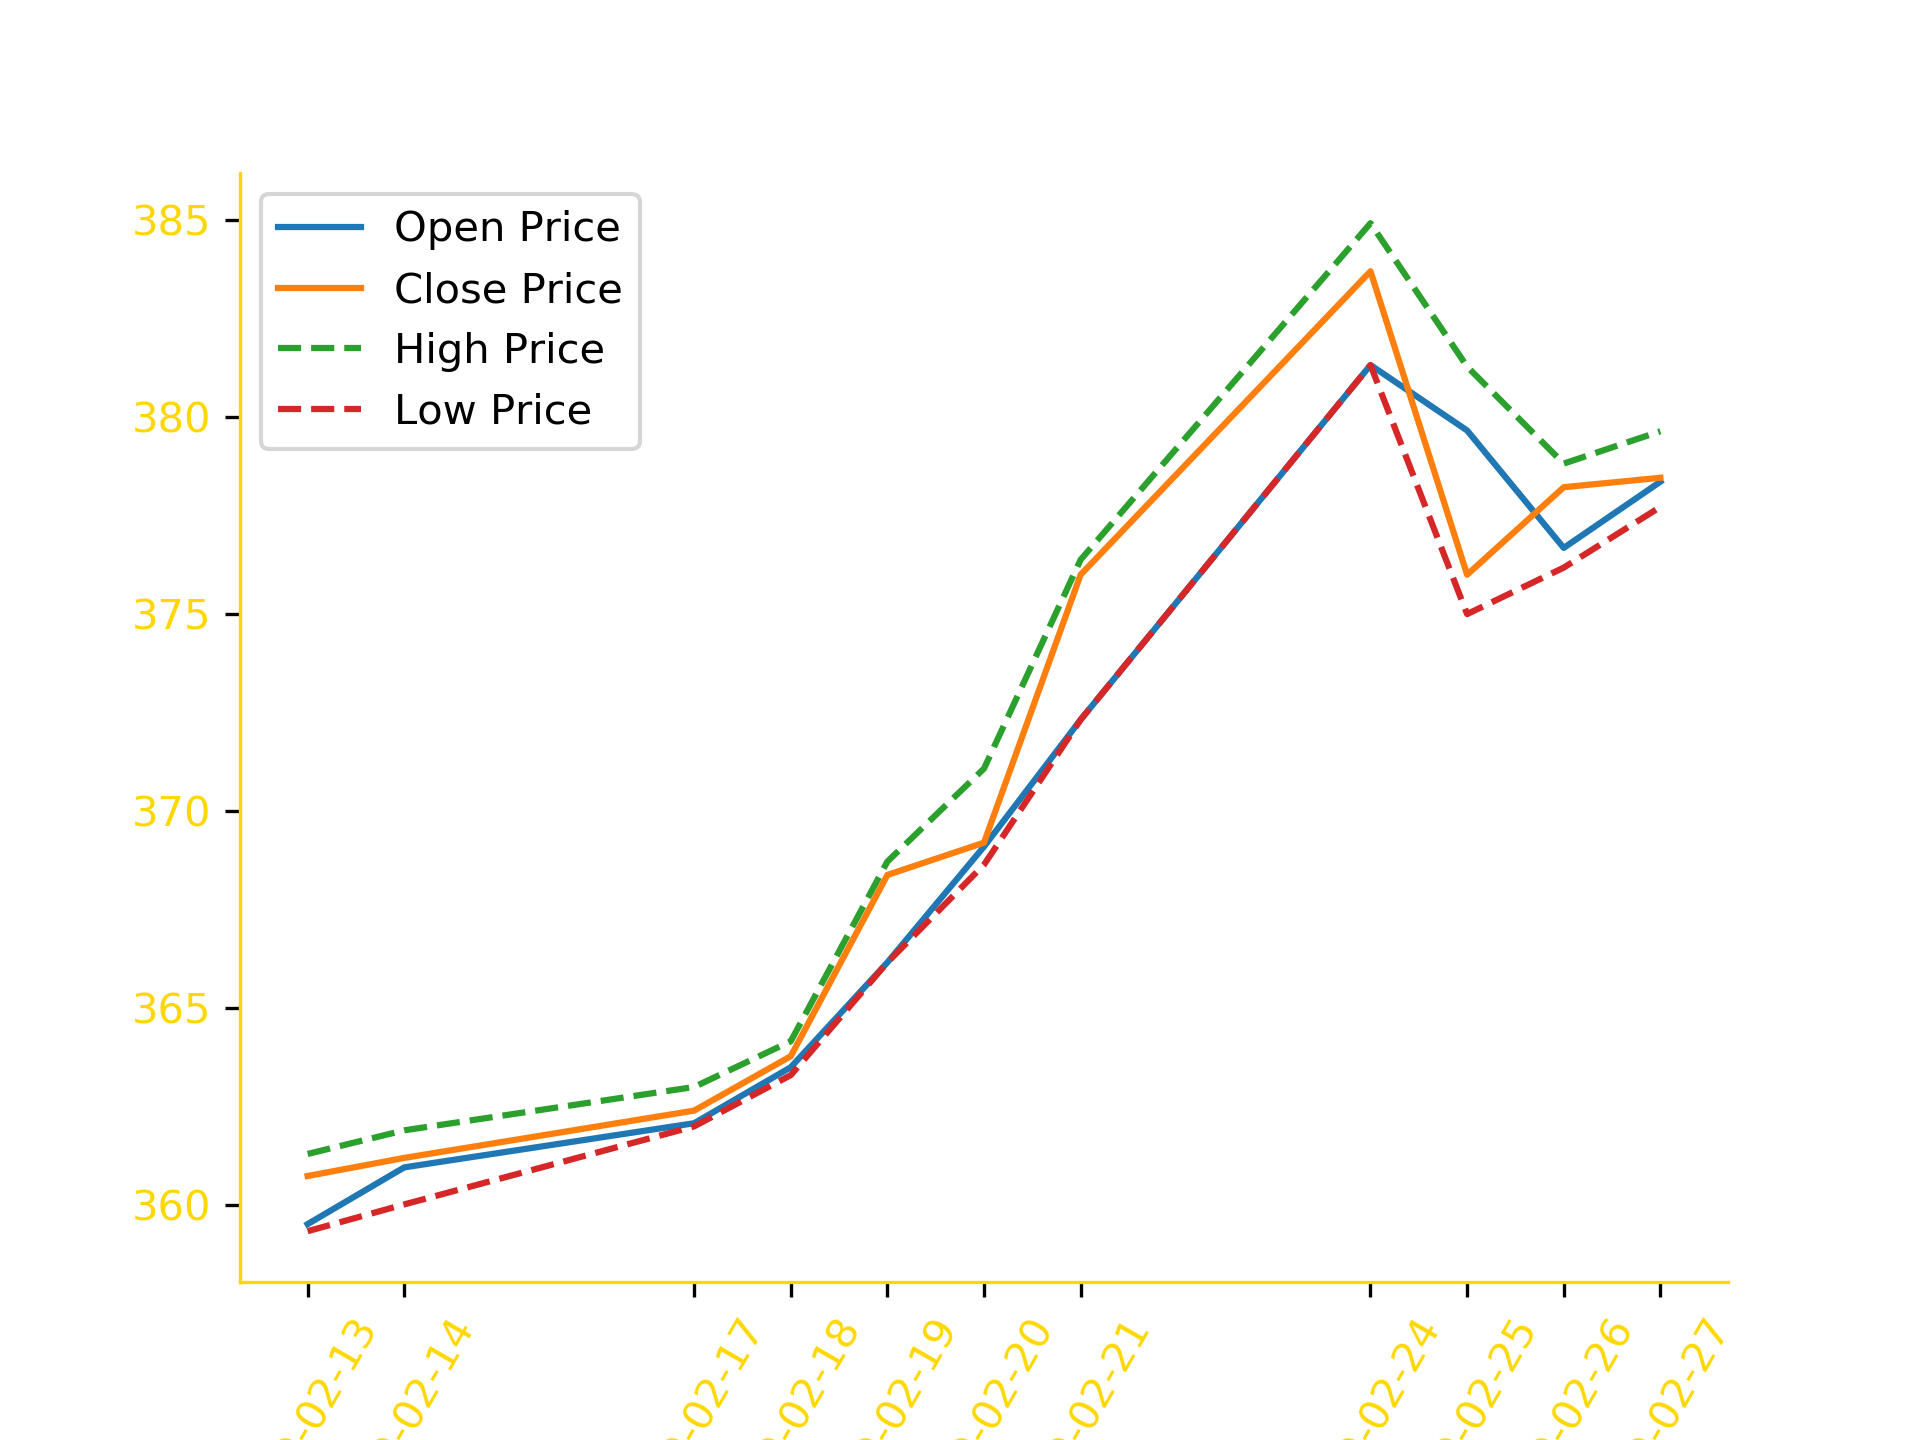
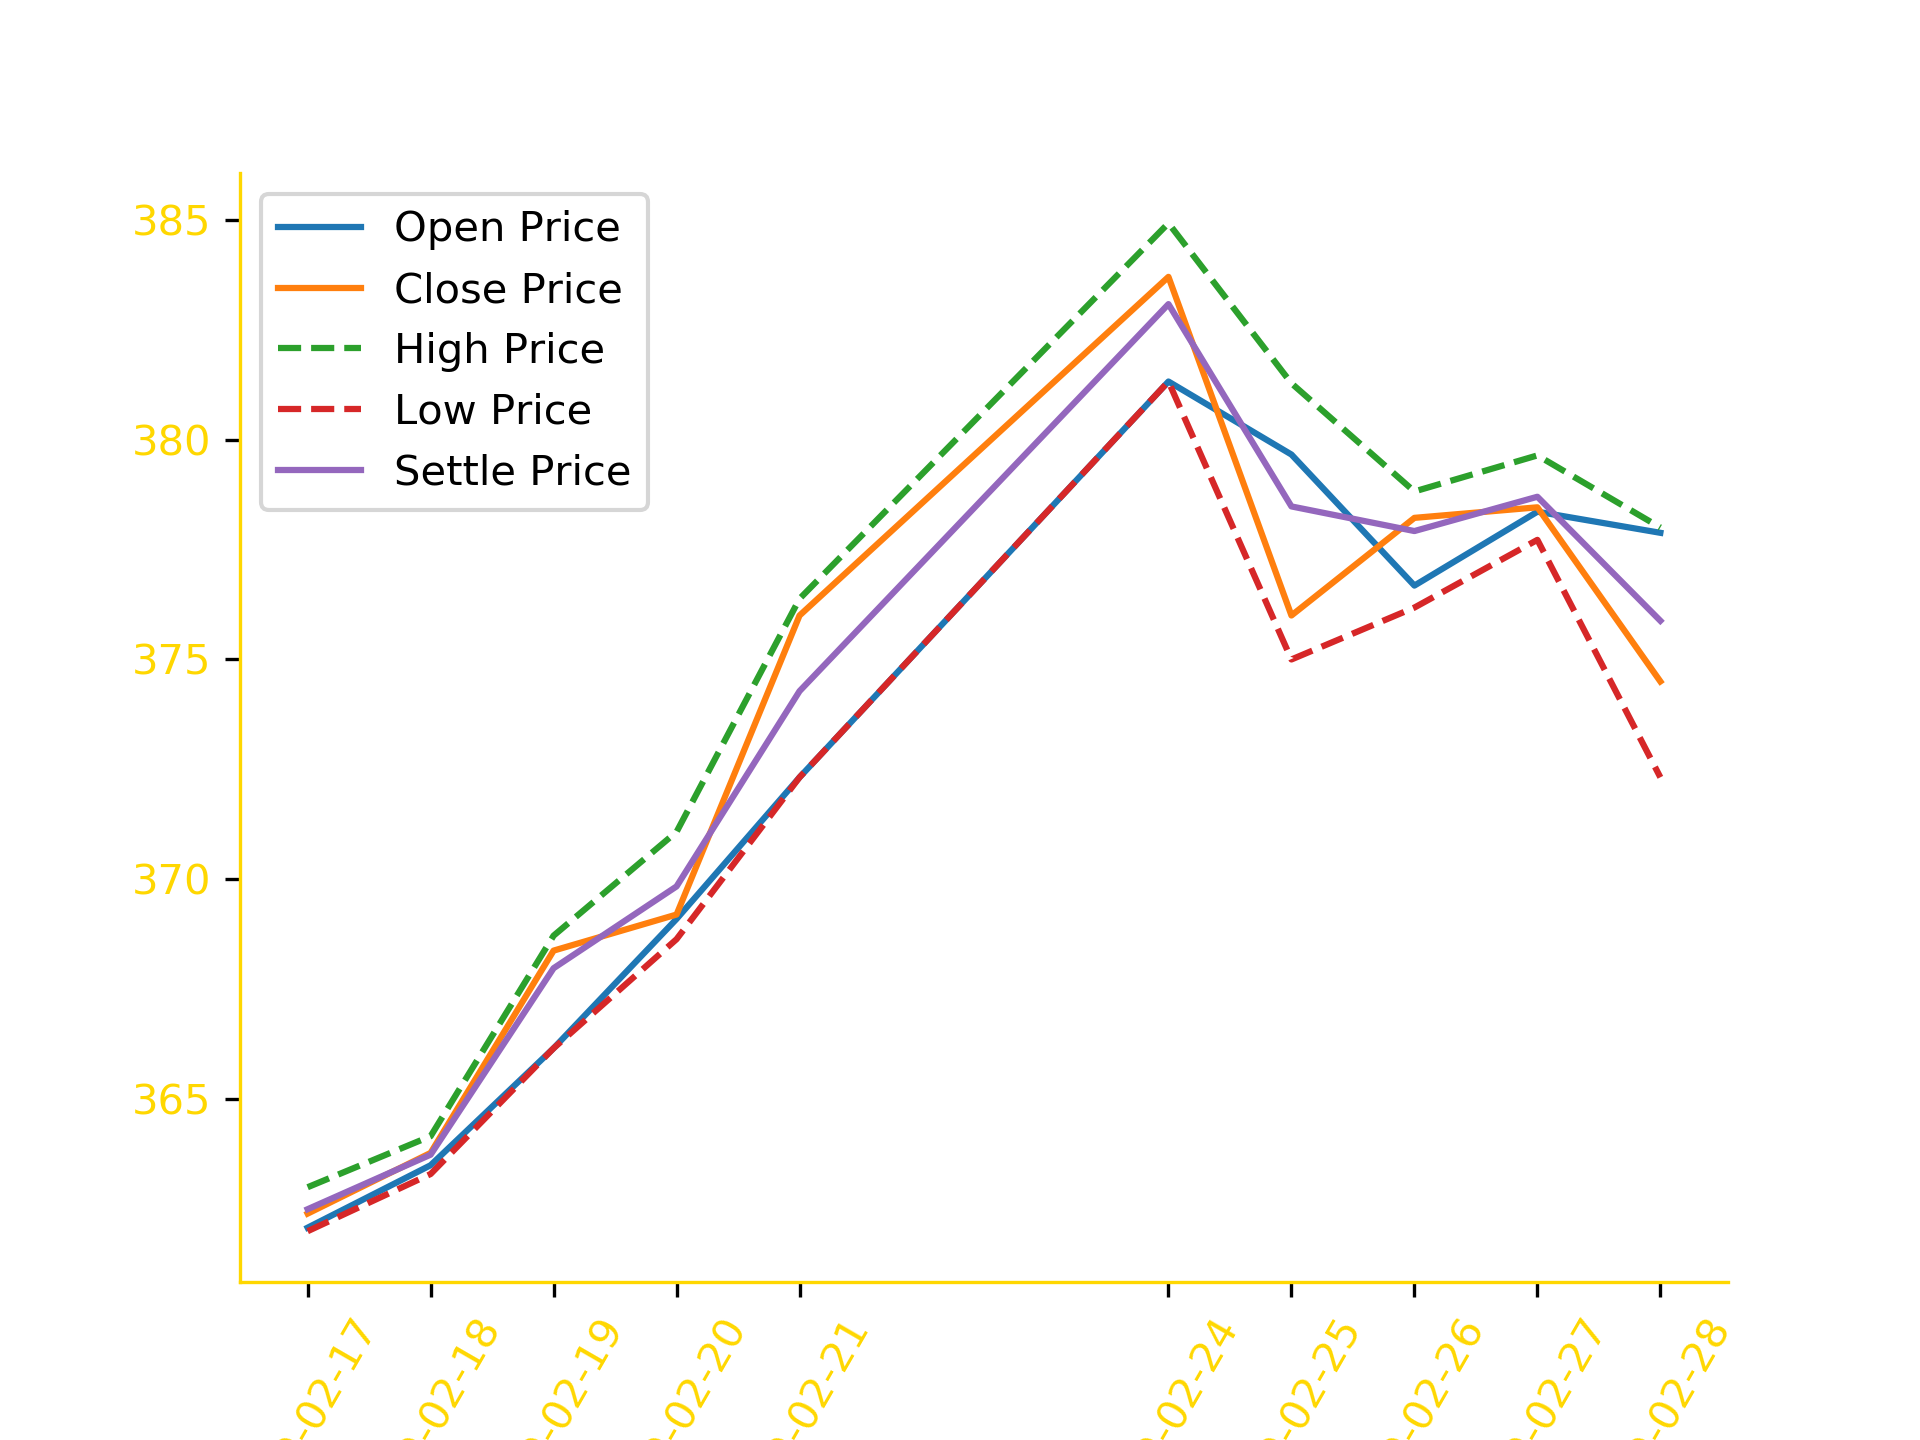
update finance

diff --git a/EZproject001/EZsite001/financialanalysis.py b/EZproject001/EZsite001/financialanalysis.py
@@ -39,12 +39,13 @@ def getcurrentdata():
 def plot_price(time, name):
     golddata = getdata()
     currenttime_ymd = str(gettime())
-    data = golddata.loc[str(time):currenttime_ymd, ['Open', 'Close', 'High', 'Low']]
+    data = golddata.loc[str(time):currenttime_ymd, ['Open', 'Close', 'High', 'Low', 'Settle']]
     x = data.index
     y_open = data['Open'].values
     y_close = data['Close'].values
     y_high = data['High'].values
     y_low = data['Low'].values
+    y_settle = data['Settle'].values
     plt.title(name, color='gold', fontsize='large', fontweight='bold')
     plt.figure(dpi=300)
     # border of axis x and y
@@ -57,6 +58,7 @@ def plot_price(time, name):
     plt.plot(x, y_close, label="Close Price")
     plt.plot(x, y_high, label="High Price", ls='--')
     plt.plot(x, y_low, label="Low Price", ls='--')
+    plt.plot(x, y_settle, label="Settle Price")
     # number of axis x and y
     plt.xticks(x, color='gold', rotation='60')
     plt.yticks(color='gold')
@@ -69,7 +71,7 @@ def plot_price(time, name):
 def gethistorydata():
     currenttime = getorigintime()
     # 1 day
-    aweek = (currenttime - datetime.timedelta(days=7)).strftime('%Y-%m-%d')
+    aweek = (currenttime - datetime.timedelta(days=1)).strftime('%Y-%m-%d')
     plot_price(aweek, gettime())
     # 1 week
     aweek = (currenttime - datetime.timedelta(days=7)).strftime('%Y-%m-%d')
@@ -94,4 +96,4 @@ def gethistorydata():
 
 if __name__ == '__main__':
     # pass
-    print(getorigintime())
+    print(gethistorydata())
